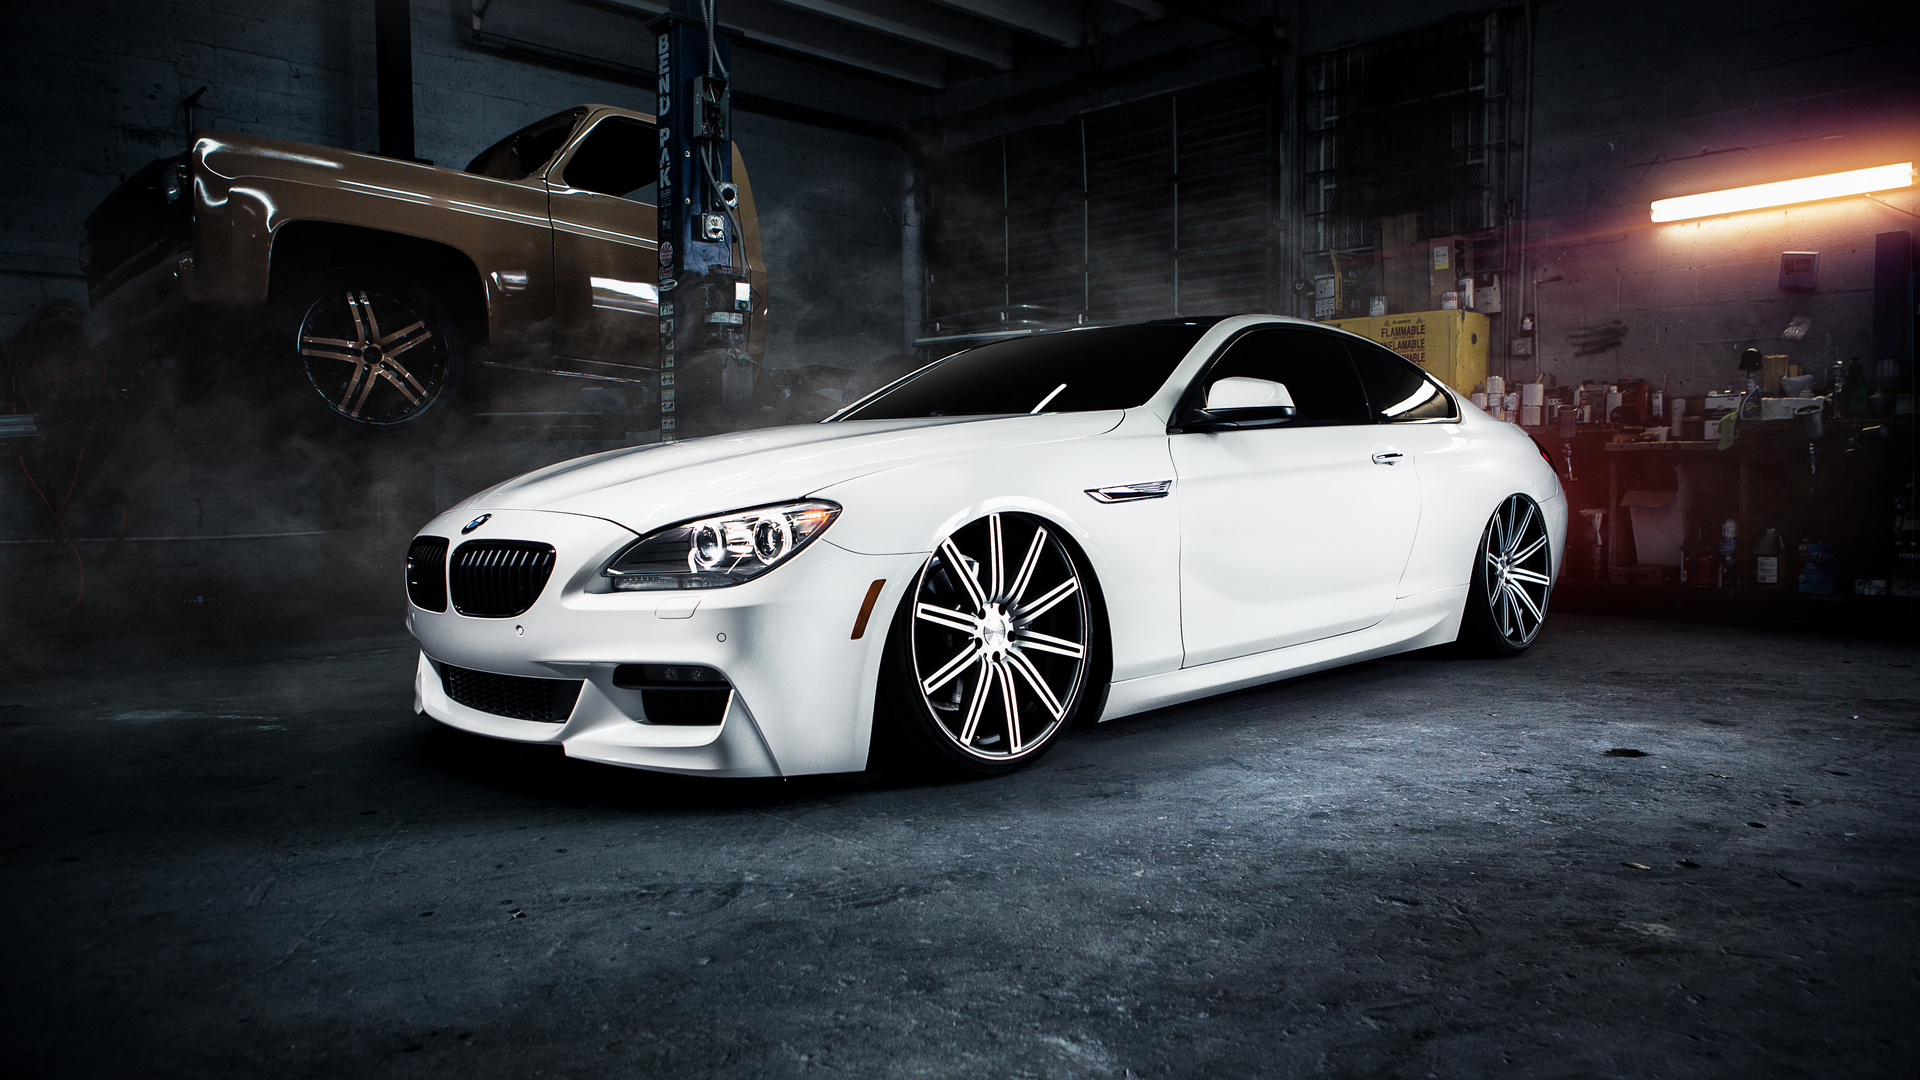
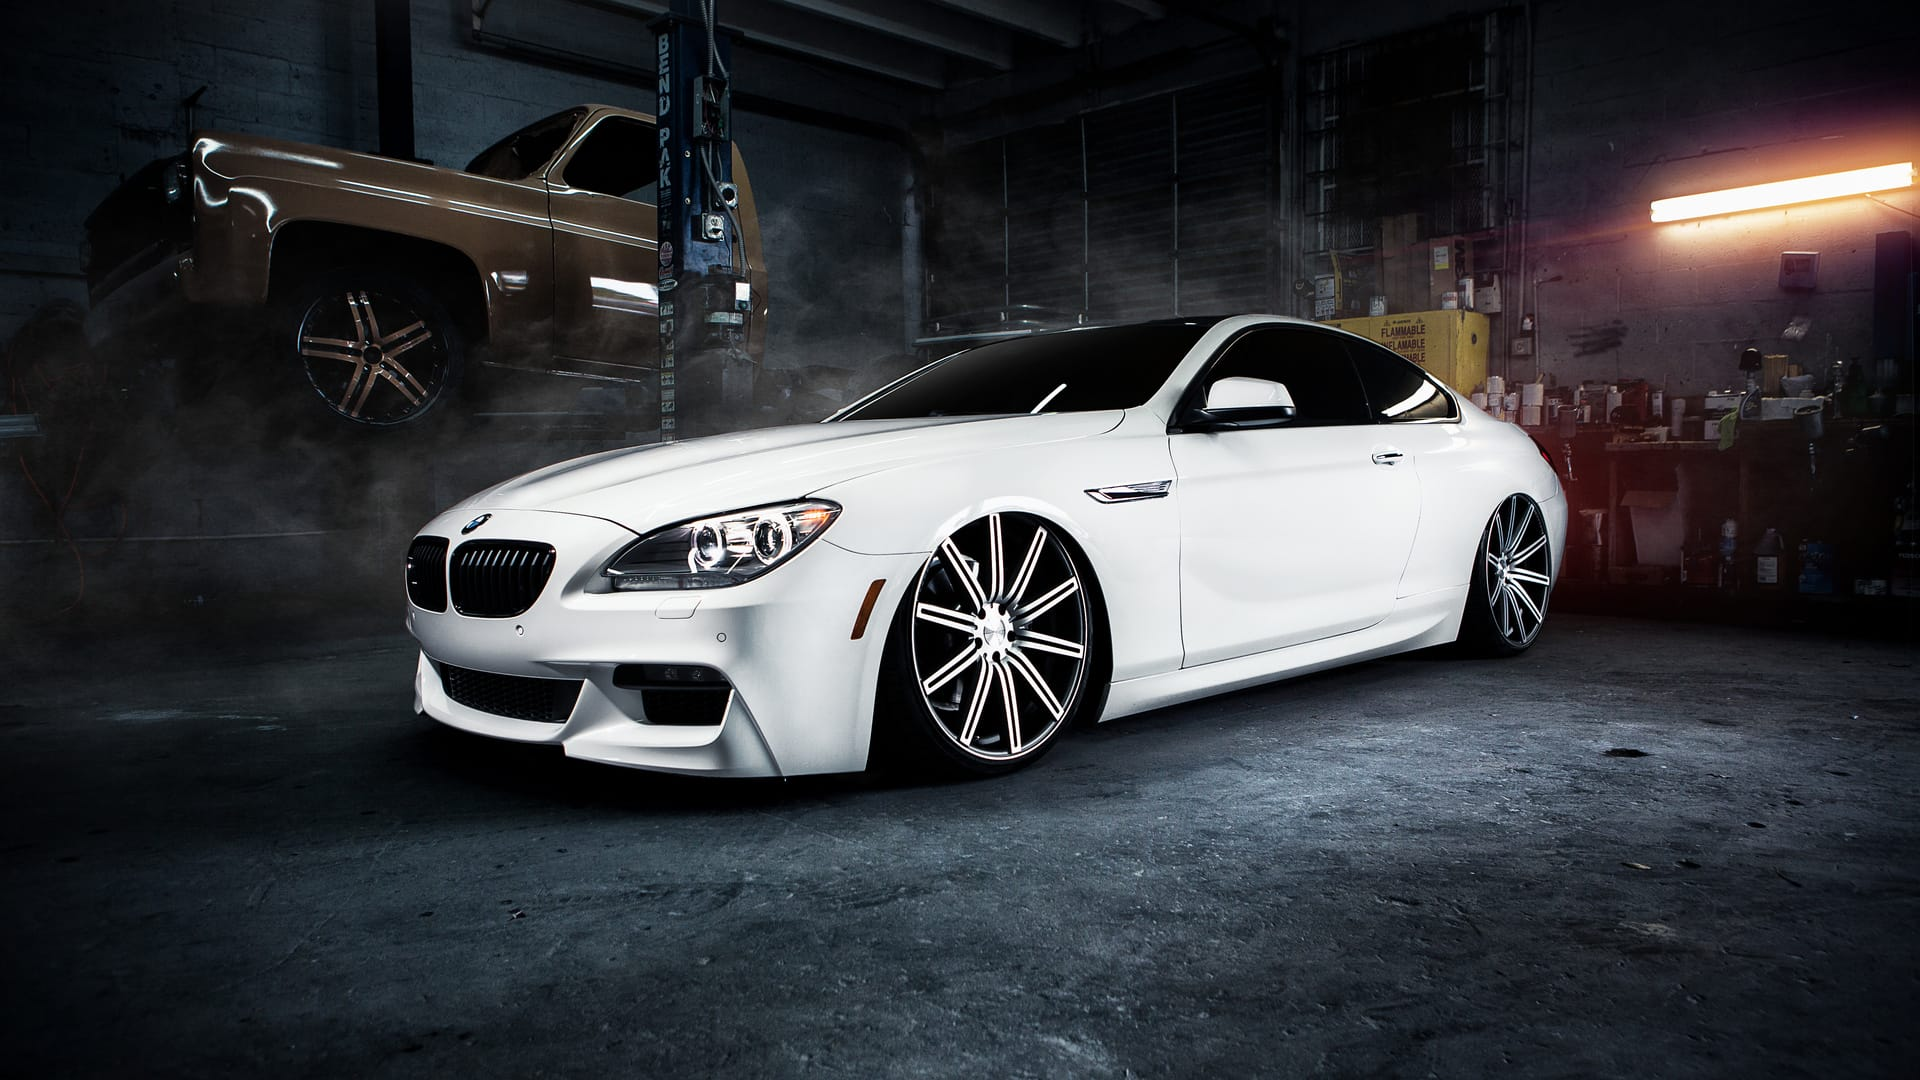
optimize

diff --git a/src/components/Layout/Footer/Footer.tsx b/src/components/Layout/Footer/Footer.tsx
@@ -3,13 +3,20 @@ import theme from "@/constants/theme";
 import { footerData } from "./footer.data";
 import * as styles from "./style";
 import Link from "next/link";
+import Image from "next/image";
 
 export default function Footer() {
   return (
-    <footer id='contacts' css={styles.footer}>
+    <footer id="contacts" css={styles.footer}>
       <div css={styles.top(theme)}>
         <Link href="/" css={styles.logoBlock}>
-          <img src={footerData.logoImg} alt="Logo" css={styles.logo} />
+          <Image
+            width={100}
+            height={40}
+            src={footerData.logoImg}
+            alt="Logo"
+            css={styles.logo}
+          />
         </Link>
 
         <div>
@@ -25,10 +32,12 @@ export default function Footer() {
         <div css={styles.contactsBlock}>
           <div css={styles.phones}>
             <div css={styles.phoneRow}>
-              <img
+              <Image
                 src={footerData.images.phone}
                 alt="phone"
                 css={styles.contactIcon}
+                width={20}
+                height={20}
               />
               <a href={footerData.phoneList.href}>
                 {footerData.phoneList.label}
@@ -36,10 +45,12 @@ export default function Footer() {
             </div>
           </div>
           <div css={styles.emailRow}>
-            <img
+            <Image
               src={footerData.images.gmail}
               alt="mail"
               css={styles.contactIcon}
+              width={20}
+              height={20}
             />
             <a href={`mailto:${footerData.email}`}>{footerData.email}</a>
           </div>
@@ -50,10 +61,12 @@ export default function Footer() {
               rel="noopener noreferrer"
               css={styles.addressRow}
             >
-              <img
+              <Image
                 src={footerData.images.location}
                 alt="address"
                 css={styles.contactIcon}
+                width={20}
+                height={20}
               />
               <span>{footerData.address}</span>
             </a>
@@ -61,10 +74,12 @@ export default function Footer() {
           <div css={styles.workTime}>
             {footerData.workTime.map((row) => (
               <div css={styles.workTimeRow} key={row}>
-                <img
+                <Image
                   src={footerData.images.time}
                   alt="clock"
                   css={styles.contactIcon}
+                  width={20}
+                  height={20}
                 />
                 <span>{row}</span>
               </div>

diff --git a/src/components/Outlet/Home/Services/services.data.ts b/src/components/Outlet/Home/Services/services.data.ts
@@ -4,28 +4,28 @@ export const servicesData = {
     {
       id: 1,
       title: "Діагностика",
-      img: "./images/services/diagnostic.png",
+      img: "/images/services/diagnostic.png",
       descriptionTitle: "Точна перевірка стану авто",
       description: "Виявляємо будь-які несправності швидко та без зайвих витрат.",
     },
     {
       id: 2,
       title: "Ремонт і заміна",
-      img: "./images/services/fix.png",
+      img: "/images/services/fix.png",
       descriptionTitle: "Будь-які роботи — від дрібного ремонту до капремонту",
       description: "Виконуємо плановий і терміновий ремонт ходової, двигуна, гальм та інших систем.",
     },
     {
       id: 3,
       title: "Підбір та продаж запчастин",
-      img: "./images/services/find.png",
+      img: "/images/services/find.png",
       descriptionTitle: "Сертифіковані деталі під ваше авто",
       description: "Підбираємо і замовляємо якісні запчастини за доступними цінами.",
     },
     {
       id: 4,
       title: "Додатковий сервіс",
-      img: "./images/services/services.png",
+      img: "/images/services/services.png",
       descriptionTitle: "Консультації та допомога власникам авто",
       description: "Наші майстри допоможуть порадою, підкажуть найкращий варіант ремонту чи обслуговування.",
     },

diff --git a/src/components/Outlet/Home/Subscribe/Subscribe.tsx b/src/components/Outlet/Home/Subscribe/Subscribe.tsx
@@ -5,6 +5,7 @@ import * as styles from "./style";
 import { useState } from "react";
 import theme from "@/constants/theme";
 import Link from "next/link";
+import Image from "next/image";
 
 export default function Subscribe() {
   const [hoveredId, setHoveredId] = useState<string | null>(null);
@@ -69,11 +70,13 @@ export default function Subscribe() {
             onMouseEnter={() => setHoveredId(String(id))}
             onMouseLeave={() => setHoveredId(null)}
           >
-            <img
+            <Image
               css={styles.navImg(theme)}
               src={img}
               alt={title}
               data-active={hoveredId === String(id)}
+              width={40}
+              height={40}
             />
             <div css={styles.circle(theme)}></div>
             <span css={styles.navText(theme)}>{title}</span>
@@ -82,7 +85,13 @@ export default function Subscribe() {
         <div css={styles.line}></div>
       </nav>
       <div css={styles.subscribeContainer(theme)}>
-        <img src={subscribeData.image} alt="garageImage" css={styles.image} />
+        <Image
+          width={600}
+          height={400}
+          src={subscribeData.image}
+          alt="garageImage"
+          css={styles.image}
+        />
         <form css={styles.form} onSubmit={handleSubmit}>
           <h2 css={styles.title}>{subscribeData.formData.title}</h2>
           <p css={styles.subtitle}>{subscribeData.formData.subtitle}</p>

diff --git a/src/components/Outlet/Home/Services/Services.tsx b/src/components/Outlet/Home/Services/Services.tsx
@@ -1,4 +1,5 @@
 /* eslint-disable @next/next/no-img-element */
+import Image from "next/image";
 import Circle from "../../Circle";
 import { servicesData } from "./services.data";
 import * as styles from "./style";
@@ -6,22 +7,24 @@ import theme from "@/constants/theme";
 
 export default function Services() {
   return (
-    <section id='services' css={styles.section}>
+    <section id="services" css={styles.section}>
       <div css={styles.titleBlock}>
         <Circle />
         <h2 css={styles.title}>{servicesData.title}</h2>
       </div>
       <ul css={styles.list(theme)}>
-        {servicesData.items.map(({ id, title, descriptionTitle, description, img }) => (
-          <li key={id}>
-            <div css={styles.link}>
-              <h3>{title}</h3>
-              <img src={img} alt={title} />
-              <h4>{descriptionTitle}</h4>
-              <p>{description}</p>
-            </div>
-          </li>
-        ))}
+        {servicesData.items.map(
+          ({ id, title, descriptionTitle, description, img }) => (
+            <li key={id}>
+              <div css={styles.link}>
+                <h3>{title}</h3>
+                <Image src={img} alt={title} width={200} height={170} />
+                <h4>{descriptionTitle}</h4>
+                <p>{description}</p>
+              </div>
+            </li>
+          )
+        )}
       </ul>
     </section>
   );

diff --git a/src/components/Outlet/Home/Hero/Hero.tsx b/src/components/Outlet/Home/Hero/Hero.tsx
@@ -2,16 +2,26 @@ import theme from "@/constants/theme";
 import { heroData } from "./hero.data";
 import * as styles from "./style";
 import Link from "next/link";
+import Image from "next/image";
 
 export default function Hero() {
   return (
     <section css={styles.hero(theme)}>
+      <Image
+        src={heroData.bgImage}
+        alt={heroData.title}
+        fill
+        priority
+        sizes="100vw"
+        style={{ objectFit: "cover", objectPosition: "center" }}
+      />
+
       <div css={styles.content(theme)}>
         <h1>{heroData.title}</h1>
         <p>{heroData.subtitle}</p>
-        <button>
-          <Link href="#fix">{heroData.buttonText}</Link>
-        </button>
+        <Link href="#fix">
+          <button>{heroData.buttonText}</button>
+        </Link>
       </div>
     </section>
   );

diff --git a/src/components/Outlet/Home/FormBlock/FormBlock.tsx b/src/components/Outlet/Home/FormBlock/FormBlock.tsx
@@ -3,6 +3,7 @@ import theme from "@/constants/theme";
 import { formBlockData } from "./formBlock.data";
 import * as styles from "./style";
 import { useState } from "react";
+import Image from "next/image";
 
 export default function FormBlock() {
   const [formData, setFormData] = useState<{ [key: string]: string }>({
@@ -86,7 +87,12 @@ export default function FormBlock() {
           <div>{formBlockData.contact.phones}</div>
         </div>
         <div css={styles.carImg(theme)}>
-          <img src={formBlockData.bgImage} alt="car" />
+          <Image
+            src={formBlockData.bgImage}
+            alt="car"
+            width={500}
+            height={300}
+          />
         </div>
       </div>
 

diff --git a/src/components/Layout/Header/Header.tsx b/src/components/Layout/Header/Header.tsx
@@ -3,13 +3,20 @@ import theme from "@/constants/theme";
 import { headerData } from "./header.data";
 import * as styles from "./style";
 import Link from "next/link";
+import Image from "next/image";
 
 export default function Header() {
   return (
     <header css={styles.section}>
       <div css={styles.top(theme)}>
         <Link href="/">
-          <img src={headerData.logoImg} alt="Logo" css={styles.logo(theme)} />
+          <Image
+            width={150}
+            height={50}
+            src={headerData.logoImg}
+            alt="Logo"
+            css={styles.logo(theme)}
+          />
         </Link>
         <div>
           <p css={styles.phone}>{headerData.phone}</p>

diff --git a/src/components/Outlet/Home/Advantages/Advantages.tsx b/src/components/Outlet/Home/Advantages/Advantages.tsx
@@ -3,6 +3,7 @@ import theme from "@/constants/theme";
 import Circle from "../../Circle";
 import { advantagesData } from "./advantages.data";
 import * as styles from "./style";
+import Image from "next/image";
 
 export default function Advantages() {
   return (
@@ -14,7 +15,7 @@ export default function Advantages() {
       <ul css={styles.list(theme)}>
         {advantagesData.items.map(({ id, title, description, img }) => (
           <li key={id}>
-            <img src={img} alt={title} />
+            <Image src={img} alt={title} width={40} height={40} />
             <h3>{title}</h3>
             <p>{description}</p>
           </li>

diff --git a/src/components/Outlet/Home/Hero/style.ts b/src/components/Outlet/Home/Hero/style.ts
@@ -3,9 +3,7 @@ import { heroData } from "./hero.data";
 import { Theme } from "@mui/material";
 
 export const hero = (theme: Theme) => css`
-  background-image: url(${heroData.bgImage});
-  background-size: cover;
-  background-position: center;
+  position: relative;
   padding: 200px 0;
   color: white;
 
@@ -16,6 +14,13 @@ export const hero = (theme: Theme) => css`
 
   position: relative;
   overflow: hidden;
+
+  /* Next/Image with the fill prop will be absolutely positioned; make sure it sits behind overlay */
+  img {
+    position: absolute;
+    inset: 0;
+    z-index: 0;
+  }
 
   &::before {
     content: "";

diff --git a/src/components/Outlet/Home/Hero/hero.data.ts b/src/components/Outlet/Home/Hero/hero.data.ts
@@ -1,6 +1,6 @@
 export const heroData = {
   title: "СТО «Бумер» у Миколаєві",
   subtitle: "Ремонт та обслуговування автомобілів усіх марок. Надійність, швидкість і якість вже понад 15 років.",
-  bgImage: './images/hero/heroBg.jpg',
+  bgImage: '/images/hero/heroBg.jpg',
   buttonText: 'Записатися на сервіс'
 };

diff --git a/src/components/Outlet/Home/FormBlock/formBlock.data.ts b/src/components/Outlet/Home/FormBlock/formBlock.data.ts
@@ -1,5 +1,5 @@
 export const formBlockData = {
-  bgImage: "./images/formBlock/imgCar.png",
+  bgImage: "/images/formBlock/imgCar.png",
   fields: [
     { name: "name", placeholder: "Ваше ім'я", type: "text" },
     { name: "phone", placeholder: "Номер телефону", type: "text" },

diff --git a/src/components/Layout/Footer/footer.data.ts b/src/components/Layout/Footer/footer.data.ts
@@ -1,5 +1,5 @@
 export const footerData = {
-  logoImg: './images/header/Logo.png',
+  logoImg: '/images/header/Logo.png',
   phoneList: { label: '+38 (067) 721-69-45', href: 'tel:+380677216945' },
   email: 'alexautoband@gmail.com',
   address: 'м. Миколаїв, Троїцька 109б',
